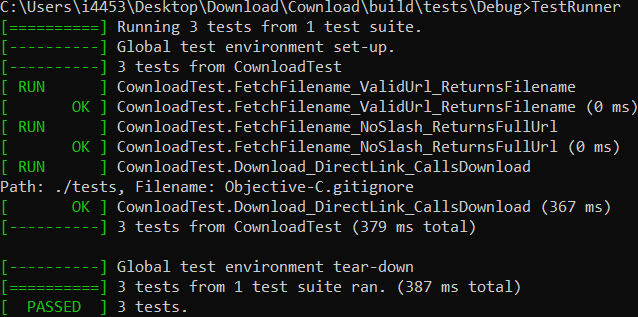
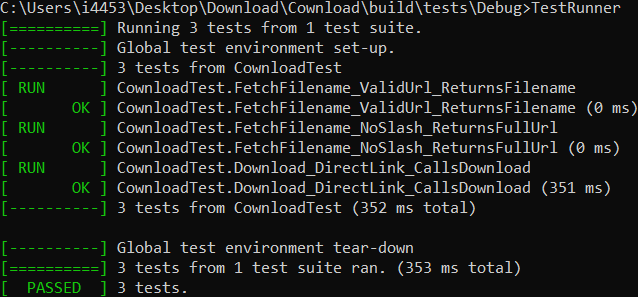
[C++] Remove debug outputs

diff --git a/Cownload/src/lib.cpp b/Cownload/src/lib.cpp
@@ -17,13 +17,12 @@ const bool Cownload::download(const std::string& link, const std::string& path =
 	{
 		if (!boost::filesystem::create_directories(path))
 		{
-			std::cerr << "Directory does not exist: " << path << std::endl;
+			std::cerr << "Directory can't be created: " << path << std::endl;
 			return false;
 		}
 	}
 
 	std::string out = fetchFilename(link);
-	std::cout << "Path: " << path << ", Filename: " << out << std::endl;
 
 	if (out.empty())
 	{

diff --git a/Cownload/readme.md b/Cownload/readme.md
@@ -21,7 +21,7 @@ cmake --build .
   <p>This project uses the following external libraries:</p>
   <ul>
     <li><a href="https://www.boost.org">Boost</a>: Licensed under the BSL-1.0 License.</li>
-    <li><a href="https://curl.se">curl</a>: Licensed under the curlandISCandBSD-3-Clause License.</li>
+    <li><a href="https://curl.se">curl</a>: Licensed under the curl, ISC and BSD-3-Clause Licenses.</li>
     <li><a href="https://github.com/google/googletest">Google Test</a>: Licensed under the BSD-3-Clause License.</li>
   </ul>
   <div align="center">
